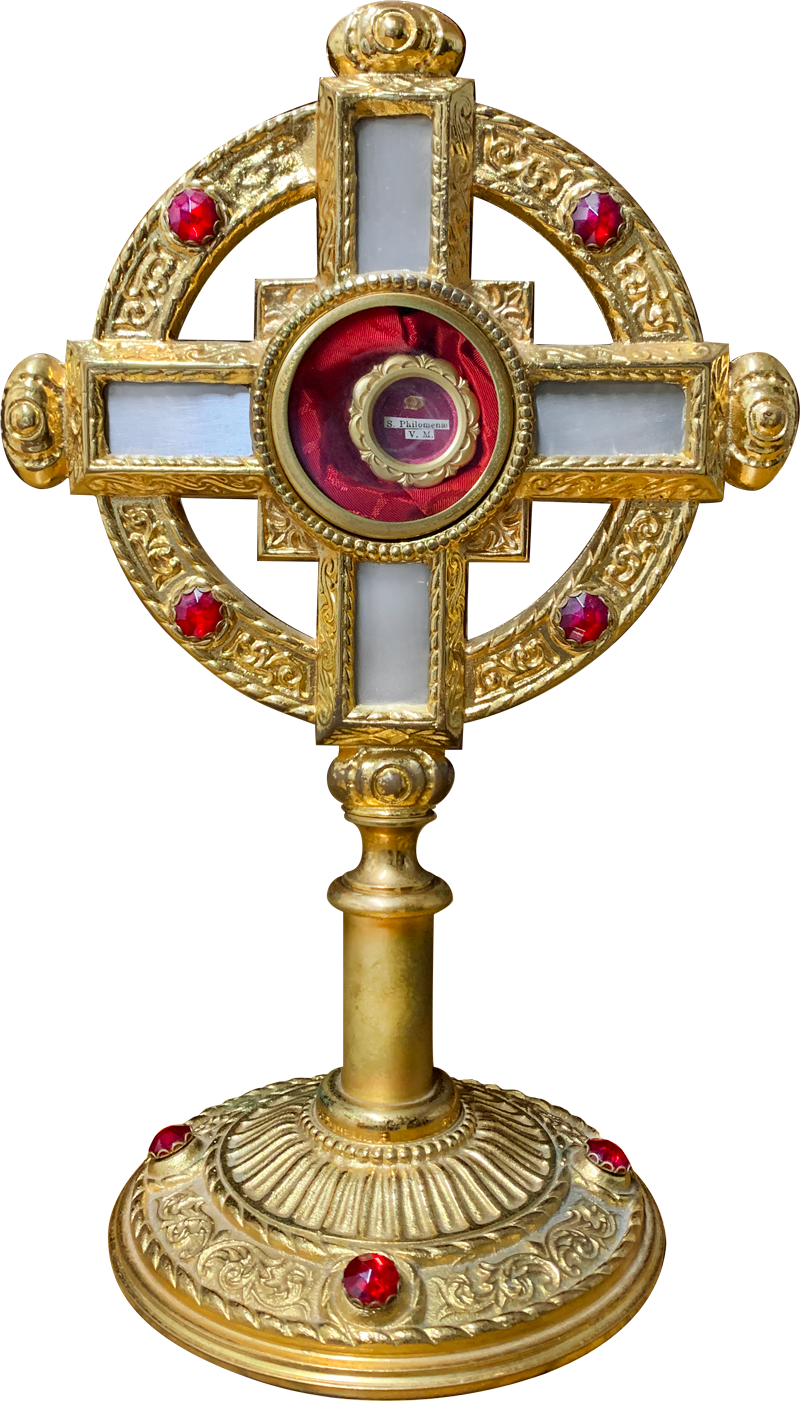
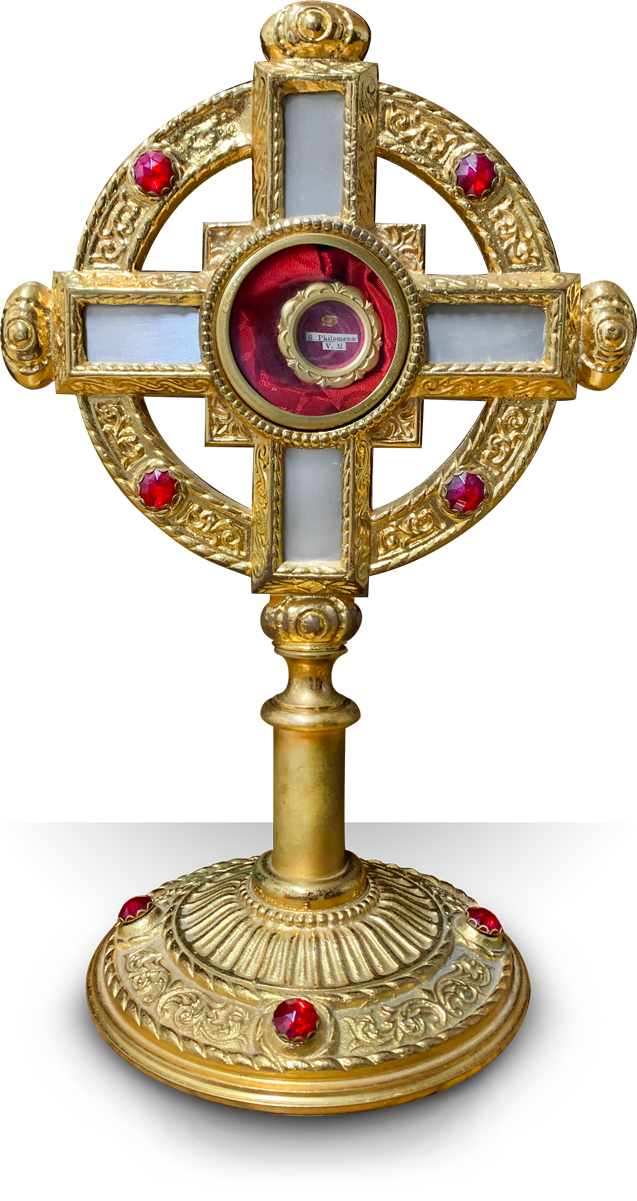
commit

diff --git a/src/components/ContactContent.js b/src/components/ContactContent.js
@@ -6,20 +6,20 @@ const ContactContent = () => (
     <div>
 <div>
 <section id="contact">
-<div className="bg-gradient-to-tl from-blue-700 via-blue-300 to-white centerAll">
+<div className="bg-gradient-to-l from-gray-300 to-white centerAll">
     <div className="max-w-3/4">
         <div className="grid grid-cols-1 md:grid-cols-2 justify-center items-center">
             <div className="pt-20">
                 <div className="centerAll">
-                <StaticImage className="relative w-3/4 mb-0" src="../images/Our_lady_of_victory_crop.png" alt="Our Lady of Victory" />
+                <StaticImage className="relative w-4/5 mb-0" src="../images/St-Philomena-Relic.png" alt="Blessed Relic of Saint Philomena at the National Shrine" />
                 </div>
             </div>
         
           
                     <div className="w-full p-5 centerAll bg-blue-900 md:bg-transparent">
-                        <div>
-                             <h1 className="text-white font-black text-5xl">SCHEDULE A VISIT</h1>
-                        <p className="text-white">Planning a visit or pilgrimage to the Shrine? Tell us about it!</p>
+                    <div>
+                             <h1 className="text-gray-600 font-black text-5xl">SCHEDULE A VISIT</h1>
+                        <p className="text-gray-600"><br />Planning a visit or pilgrimage to the Shrine? Tell us about it!</p><br />
                             <div>
                                   <form id="appointment" action="#" method="">
                                                     <div className="grid grid-cols-2 gap-4 max-w-xl m-auto">
@@ -52,7 +52,7 @@ const ContactContent = () => (
                                                         </div>
                             
                                                         <div className="col-span-2 text-center">
-                                                        <button className="bg-yellow-500 hover:bg-yellow-600 text-white font-bold rounded-full py-4 px-8 shadow-lg uppercase tracking-wider">
+                                                        <button className="bg-gray-500 hover:bg-gray-600 text-white font-bold rounded-full py-4 px-8 shadow-lg uppercase tracking-wider">
                                                         SUBMIT
                                                         </button>   
                                                         </div>

diff --git a/src/components/HomeContent.js b/src/components/HomeContent.js
@@ -110,7 +110,7 @@ const HomeContent = () => (
  <div className="max-w-3/4">
    <div className="grid grid-cols-1 md:grid-cols-2 justify-center items-center">
     <div className="pt-10">
-     <div className="centerAll w-full">
+     <div className="centerAll w-11/12">
      <StaticImage className="centerAll w-2/3" src="../images/Our_lady_of_victory_crop.png" alt="Our Lady of Victory in Davie Florida" />
      </div>
     </div>
@@ -143,7 +143,7 @@ const HomeContent = () => (
         <div className="grid grid-cols-1 md:grid-cols-2 justify-center items-center">
             <div className="py-10">
                 <div className="centerAll">
-                <StaticImage className="relative w-3/4 mb-0" src="../images/St-Philomena-Relic.png" alt="Blessed Relic of Saint Philomena at the National Shrine" />
+                <StaticImage className="relative w-4/5 mb-0" src="../images/St-Philomena-Relic.png" alt="Blessed Relic of Saint Philomena at the National Shrine" />
                 </div>
             </div>
         

diff --git a/src/components/HomeHeader.js b/src/components/HomeHeader.js
@@ -4,7 +4,7 @@ import HomeHeaderIMG from '../images/saint_philomena_shrine_logo.svg';
 
 const HomeHeader = () => (
     <div className="w-screen bg-gradient-to-r from-red-600 to-red-900 py-20 centerAll">
-        <div className="w-3/4">
+        <div className="w-1/2">
             <img className="w-full" src={HomeHeaderIMG} alt="National Shrine of Saint Philomena"/>
         </div>
     </div>

diff --git a/src/components/Menu.js b/src/components/Menu.js
@@ -2,7 +2,7 @@ import * as React from "react"
 import {Link} from "gatsby";
 
 const Menu = () => (
-<div className="bg-gray-200">
+<div className="bg-gray-200 border-b-2 border-gray-400">
   <ul className="centerAll text-sm lg:text-2xl px-2">
     <li className="menuLink"><Link to="/philomena">St Philomena</Link></li>
     <li className="menuLink"><Link to="/shop">Shop</Link></li>
